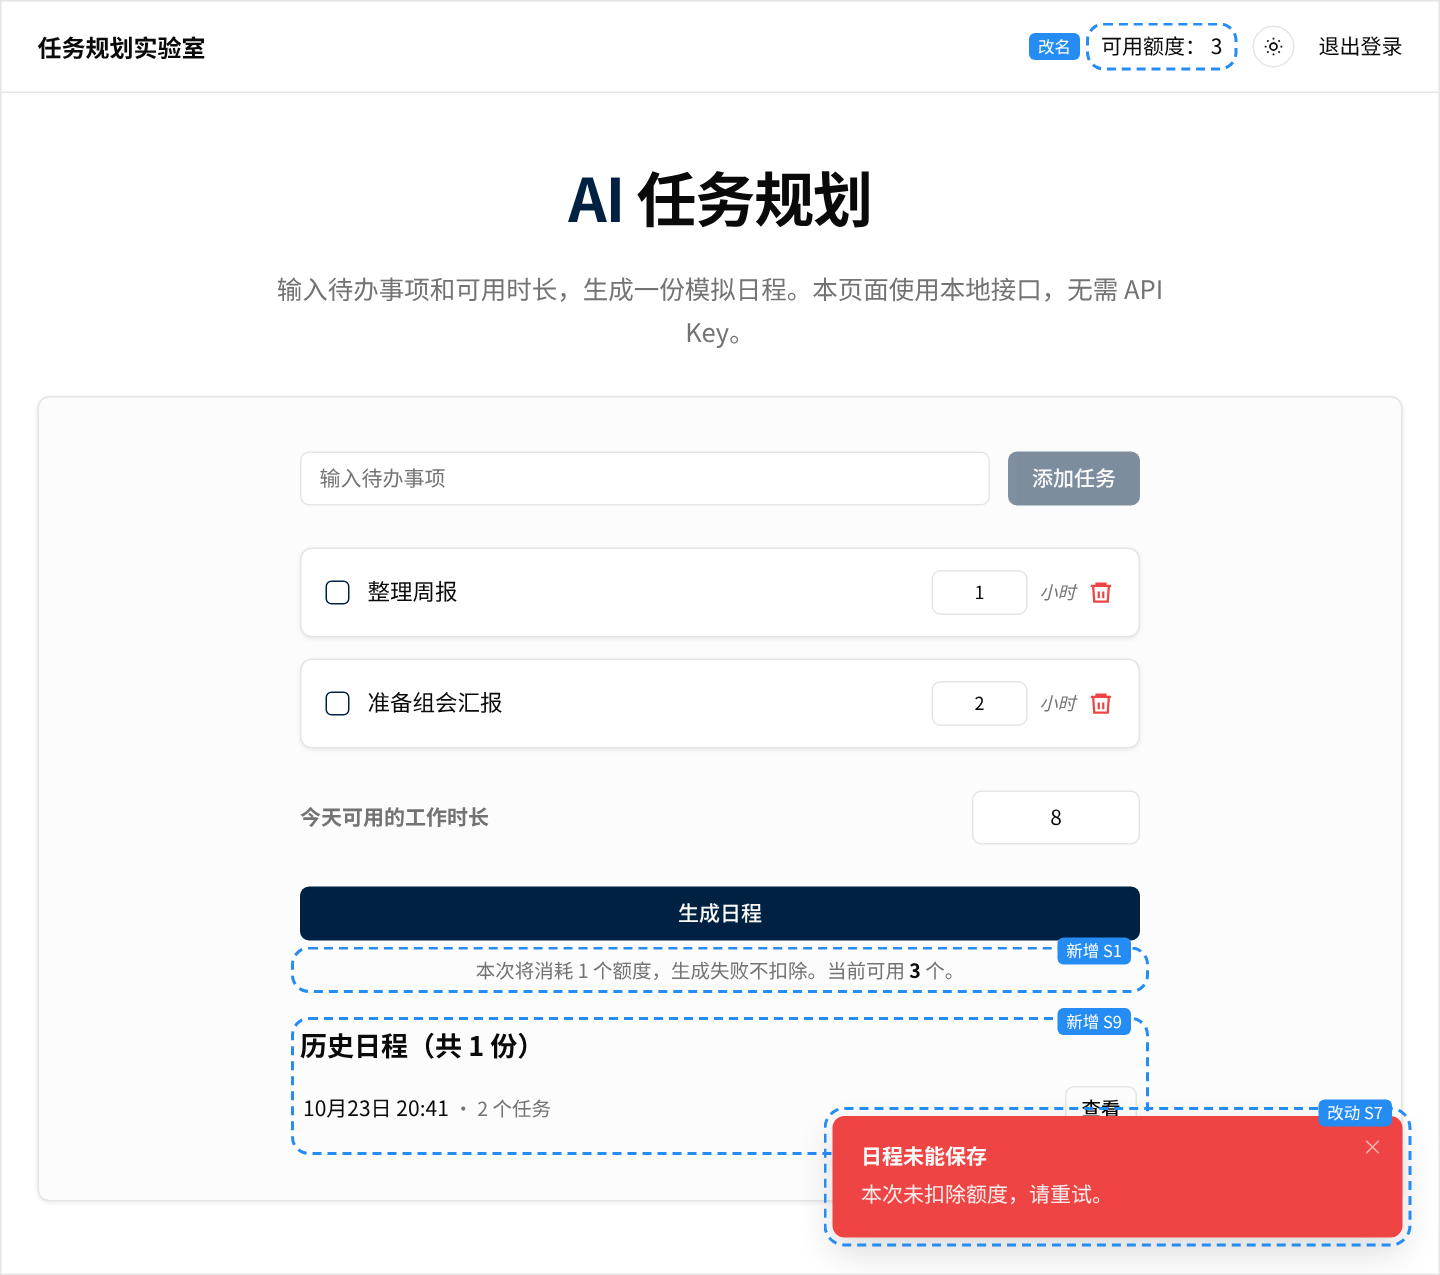
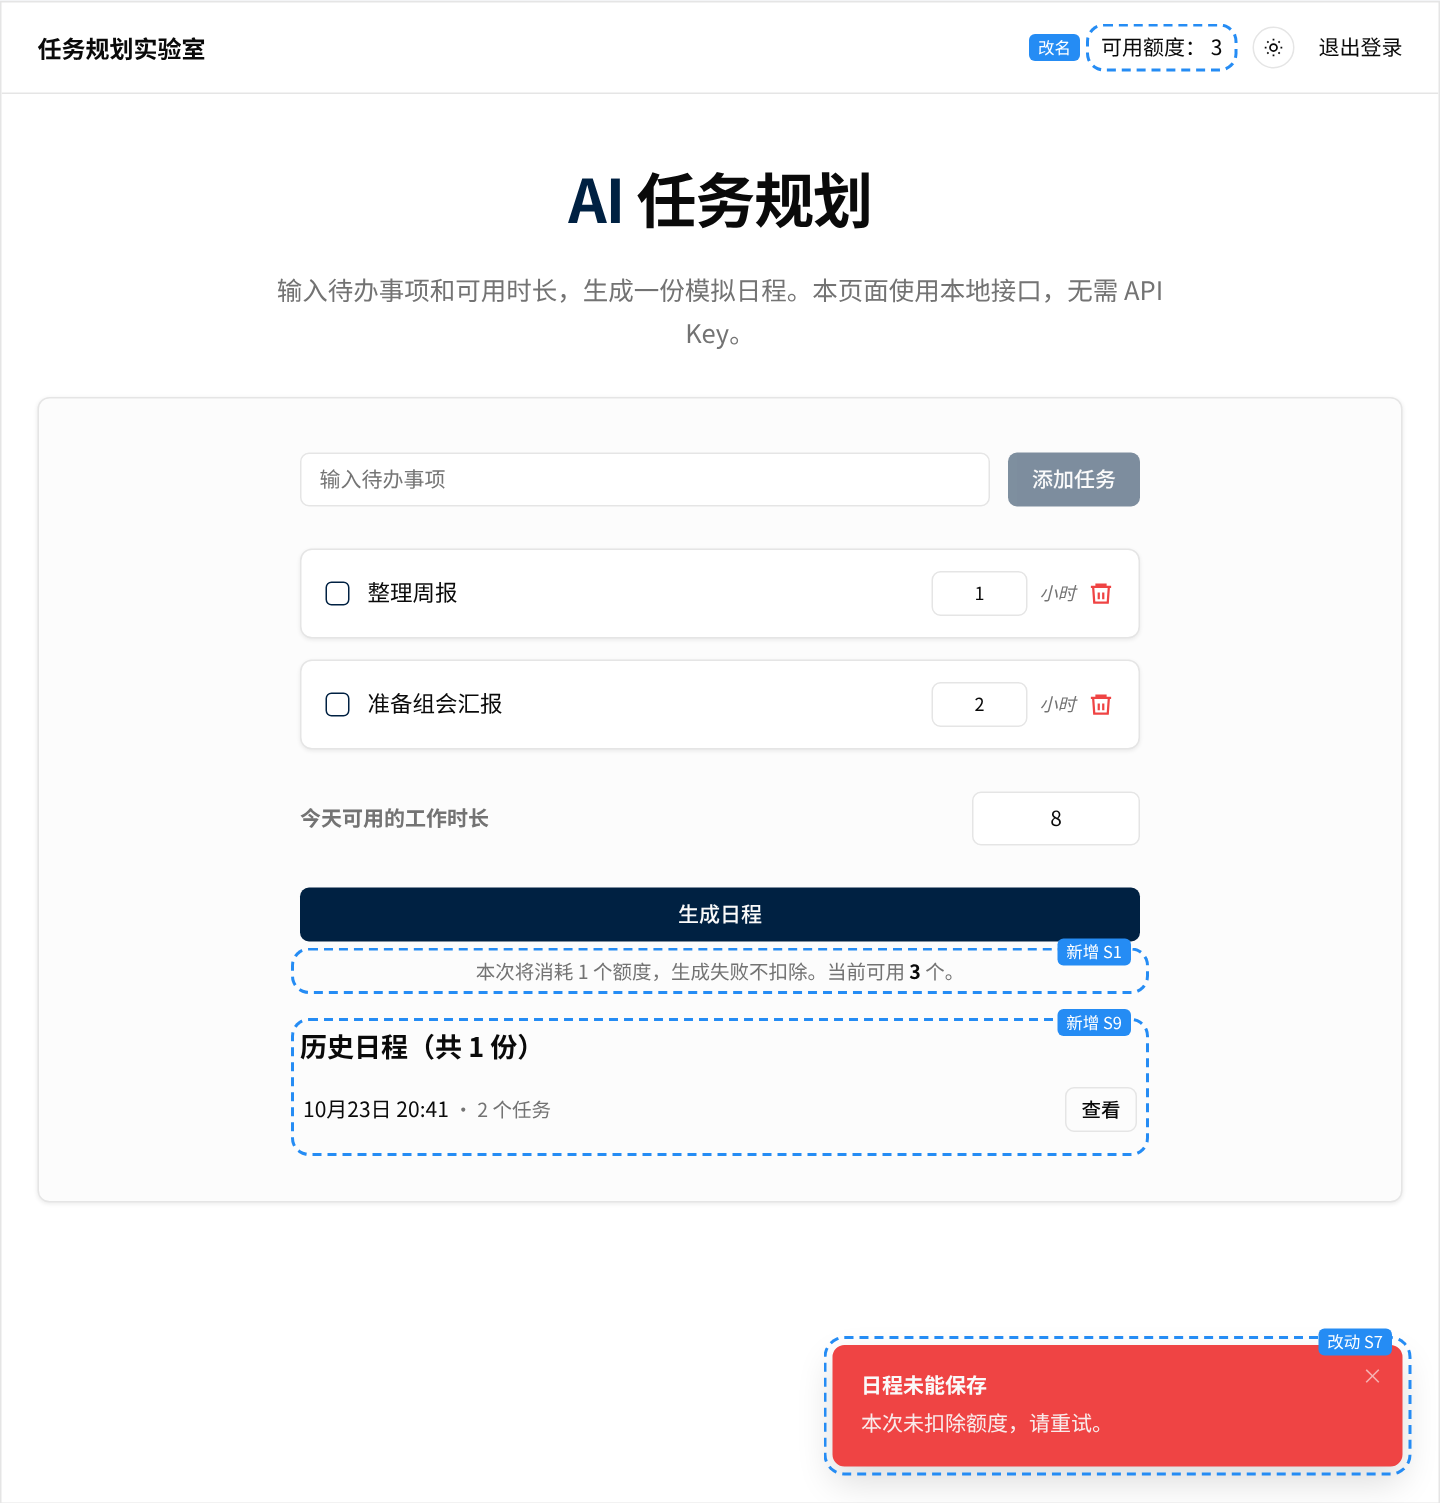
按一致性核对修订：补页面部分的验收方式和错误兜底，S10 改为常驻提示
- 03：区分"确认未保存"和"无法确认"；接口约定加其他意外错误的兜底行；T10 记录冻结尝试的开始时间
- 04：AC-07、AC-14 的页面部分改用前端测试；AC-08/09 写明 250 毫秒阈值；AC-10 补回 502 断言并按开始时间判断；AC-17 改为可执行的前端测试；I3 排除 S10
- 01/原型：S10 改为常驻提示框；截图里的弹出提示不再遮挡内容
- SUBMISSION：说明评审方式和两处有意保留

diff --git a/docs/product/02-prototype/index.html b/docs/product/02-prototype/index.html
@@ -73,6 +73,9 @@
   .notice { background: var(--info-bg); border: 1px solid hsl(31 40% 85%); border-radius: var(--radius); padding: 14px 16px; font-size: 14px; line-height: 1.7; }
   .notice .title { font-weight: 600; margin-bottom: 4px; }
   .notice .actions { display: flex; gap: 8px; margin-top: 10px; flex-wrap: wrap; }
+  .notice.warning { position: relative; background: hsl(40 100% 97%); border: 2px solid var(--warning); padding-right: 36px; }
+  .notice.warning .title { color: hsl(30 90% 35%); }
+  .notice .close { position: absolute; right: 12px; top: 8px; opacity: .6; }
   .spinner { width: 16px; height: 16px; border: 2px solid rgba(255,255,255,.35); border-top-color: #fff; border-radius: 50%; animation: spin .8s linear infinite; }
   @keyframes spin { to { transform: rotate(360deg); } }
   h3 { margin: 0 0 4px; font-size: 18px; }
@@ -92,6 +95,7 @@
   /* 交互时提示固定在窗口右下角，与真实应用一致；截图时放在页面右下角 */
   .toast { position: fixed; right: 24px; bottom: 24px; z-index: 20; width: 380px; border-radius: var(--radius); padding: 16px 40px 16px 18px; box-shadow: 0 10px 24px rgba(0,0,0,.14); font-size: 14px; }
   body.shot .toast { position: absolute; }
+  body.shot.has-toast main { padding-bottom: 200px; }
   .toast.default { background: var(--background); border: 1px solid var(--border); color: var(--foreground); }
   .toast.destructive { background: var(--destructive); border: 1px solid var(--destructive); color: var(--destructive-foreground); }
   .toast.warning { background: var(--background); border: 2px solid var(--warning); color: var(--foreground); }
@@ -142,6 +146,12 @@
 
         <button class="btn full" id="generate">生成日程</button>
         <div class="hint new" id="hint" data-new="新增 S1"></div>
+
+        <div class="notice warning new hidden" id="unconfirmed" data-new="新增 S10">
+          <span class="close" aria-hidden="true">×</span>
+          <div class="title">暂时无法确认本次结果</div>
+          额度可能已扣除。请稍后刷新页面，查看历史日程和可用额度：历史里有这份日程，就是已生成成功。重新生成会算作一次新的请求。
+        </div>
 
         <div class="notice new hidden" id="noCredits" data-new="新增 S4">
           <div class="title">当前没有可用额度</div>
@@ -196,7 +206,7 @@
     S8: { label: "S8 输入不合法", credits: 3, history: 1, invalidHours: true },
     S9: { label: "S9 历史日程", credits: 2, history: 2, expandHistory: true },
     S9b: { label: "S9 加载失败", credits: 3, history: 1, historyError: true },
-    S10: { label: "S10 结果未确认", credits: 2, history: 2, toast: ["warning", "暂时无法确认本次结果", "额度可能已扣除。请稍后刷新页面，查看历史日程和可用额度：历史里有这份日程，就是已生成成功。重新生成会算作一次新的请求。", "新增 S10"] }
+    S10: { label: "S10 结果未确认", credits: 2, history: 2, unconfirmed: true }
   };
 
   function el(id) { return document.getElementById(id); }
@@ -260,6 +270,8 @@
     hint.innerHTML = "本次将消耗 1 个额度，生成失败不扣除。当前可用 <b>" + s.credits + "</b> 个。";
 
     el("noCredits").classList.toggle("hidden", !zero);
+    el("unconfirmed").classList.toggle("hidden", !s.unconfirmed);
+    document.body.classList.toggle("has-toast", !!s.toast);
     el("historyLine").classList.toggle("hidden", !hasHistory);
     el("viewHistoryBtn").classList.toggle("hidden", !hasHistory);
 

diff --git a/docs/product/01-solution.md b/docs/product/01-solution.md
@@ -18,7 +18,7 @@
 | 冻结 | 调用模型前，直接从余额里减 1，不单独记录"冻结中"的额度 |
 | 成功 | 日程已保存，用户随时能在历史日程里找回。这时不需要再写任何数据，冻结时减掉的 1 就是这次的消耗 |
 | 退回 | 模型失败，或确认日程没有保存时，把减掉的 1 加回余额。每个请求最多退回一次 |
-| 结果未确认 | 退回失败，或无法确认日程是否已保存。不自动退回、不自动重试，记录下来供人工核对 |
+| 结果未确认 | 退回失败、无法确认日程是否已保存，或出现其他意外错误。不自动退回、不自动重试，记录下来供人工核对 |
 
 冻结期间，其他页面看到的可用额度也会少 1。
 
@@ -52,7 +52,7 @@ sequenceDiagram
 |---|---|---|
 | R1 成功一次扣 1 | "成功"指日程已保存，用户能在历史日程里找回 | 余额减 1，历史日程加 1 |
 | R2 额度不足不调用 | 冻结失败就结束，不发起调用 | 没有 `mock-ai.started` 日志 |
-| R3 模型失败不扣 | 冻结的额度退回；退回本身失败时进入"结果未确认"，留待人工核对 | 请求结束后余额与请求前相同 |
+| R3 模型失败不扣 | 冻结的额度退回；退回本身失败时进入"结果未确认"，留待人工核对 | 请求结束后余额与请求前相同（S10 除外） |
 | R4 并发不透支 | 只有冻结成功的请求能调用模型 | 余额始终不小于 0 |
 | R5 看得懂结果、知道下一步 | 每种结果都有固定文案，文案只说系统能保证的事 | 对照[界面状态与文案](#界面状态与文案)逐条检查 |
 
@@ -81,7 +81,7 @@ sequenceDiagram
 | D6 | 失败提示面向用户，不显示技术报错；只有退回成功后才说"本次未扣除额度" | R5：提示必须是真话 | 无 |
 | D7 | 输入检查放在冻结之前：必须有任务，时长 1–24 小时 | 不合法的请求不冻结、不调用 | 无 |
 | D8 | 可用额度为 0 时，生成按钮置灰并说明原因，提供"刷新额度"入口 | 点击之前就让用户知道；页面上的额度可能过期，用户可以主动刷新 | 最终以服务端判断为准 |
-| D9 | 结果无法确认时（退回失败、无法确认是否保存、页面没收到响应），不自动退回、不自动重试，如实告诉用户，并记录供人工核对 | 盲目退回或重试，可能重复退回或重复扣费 | 用户可能要等人工核对后才拿回额度；核对负责人待确认 |
+| D9 | 结果无法确认时（退回失败、无法确认是否保存、出现其他意外错误、页面没收到响应），不自动退回、不自动重试，如实告诉用户，并记录供人工核对 | 盲目退回或重试，可能重复退回或重复扣费 | 用户可能要等人工核对后才拿回额度；核对负责人待确认 |
 
 参考：Wasp 官方 Open SaaS 模板在 [PR #738](https://github.com/wasp-lang/open-saas/pull/738) 中用了同样的思路：调用模型前先扣 1 个额度，失败再加回来。本项目的基线代码与该 PR 修复前的版本基本一致。本方案在此基础上补齐成功的定义、结果无法确认时的处理、失败提示、历史日程、检查顺序和验收案例。
 
@@ -126,7 +126,7 @@ flowchart TD
     E -- 失败 --> U2[S10 结果未确认<br/>不重试<br/>记录待核对]
 ```
 
-页面没收到响应（网络中断、超时）时，不论服务端结果如何，都显示 S10。
+页面没收到响应（网络中断、超时）时，不论服务端结果如何，都显示 S10。冻结这一步本身出错等其他意外错误，也按 S10 处理。
 
 改进后的并发过程（余额为 1）：
 
@@ -146,7 +146,7 @@ sequenceDiagram
 
 ## 界面状态与文案
 
-弹出提示分标题和正文；其余状态的文案直接显示在页面上。页头显示"可用额度：N"，每次生成结束后、切回页面时都会自动刷新。
+弹出提示和页面上的提示框都分标题和正文，其余文案直接显示在页面上。弹出提示 5 秒后自动消失，同一时间只显示一条，所以需要用户回头查看的说明（S4、S10）放在常驻的提示框里。页头显示"可用额度：N"，每次生成结束后、切回页面时都会自动刷新。
 
 | 状态 | 出现时机 | 界面表现 | 文案 | 用户下一步 |
 |---|---|---|---|---|
@@ -159,9 +159,11 @@ sequenceDiagram
 | S7 保存失败 | 确认日程没有保存，且退回成功 | 弹出错误提示 | 标题：日程未能保存<br/>正文：本次未扣除额度，请重试。 | 重试 |
 | S8 输入不合法 | 没有任务，或时长不在 1–24 小时 | 不发请求，在对应位置提示 | 请先添加待办事项 ／ 可用时长需在 1–24 小时之间 | 修改输入 |
 | S9 历史日程 | 一直显示在生成按钮下方 | 按时间倒序，每项显示生成时间和任务数。加载中显示"正在加载历史日程…"；没有记录时显示"还没有生成过日程"；加载失败时显示"历史日程加载失败"和"重试" | 历史日程（共 N 份） | 展开查看 |
-| S10 结果未确认 | 退回失败；无法确认日程是否保存；页面没收到响应 | 弹出提示，不自动重试 | 标题：暂时无法确认本次结果<br/>正文：额度可能已扣除。请稍后刷新页面，查看历史日程和可用额度：历史里有这份日程，就是已生成成功。重新生成会算作一次新的请求。 | 稍后刷新，在历史日程里确认结果 |
+| S10 结果未确认 | 退回失败；无法确认日程是否保存；出现其他意外错误；页面没收到响应 | 按钮下方显示常驻提示框，用户关闭或刷新页面之前不会消失；不自动重试 | 标题：暂时无法确认本次结果<br/>正文：额度可能已扣除。请稍后刷新页面，查看历史日程和可用额度：历史里有这份日程，就是已生成成功。重新生成会算作一次新的请求。 | 稍后刷新，在历史日程里确认结果 |
 
 两处文案等待确认后再补：联系管理员的渠道确定后，S4 加上联系管理员的入口；核对负责人确定后，S10 的正文加上"如果没有，额度会在核对后退回"。
+
+S1 说的"生成失败不扣除"，在退回失败时要靠人工核对才能兑现（见 S10 和待确认第 4 项）。
 
 界面效果见[原型](02-prototype/README.md)。
 

diff --git a/SUBMISSION.md b/SUBMISSION.md
@@ -8,7 +8,7 @@
 
 - **问题判断**：生成日程先调模型、后查额度，查的还是过期的余额快照，导致额度为 0 也调用模型、并发请求可以透支；失败或额度不足时，用户不知道发生了什么、该做什么。
 - **方案**：调用前先冻结 1 个额度，判断和扣减由数据库一步完成；日程保存成功才算消耗，模型失败或确认没保存时退回；结果无法确认时不自动退回，如实告知并留下核对记录。每种结果都有明确提示，并展示历史日程。
-- **完成状态**：五项交付已完成，经过三轮独立评审修订；没有改代码；现状问题是代码推断，没有实际运行。
+- **完成状态**：五项交付已完成，按三轮评审意见修订过；没有改代码；现状问题是代码推断，没有实际运行。
 
 详细判断和决策见 [01 · 结论](docs/product/01-solution.md#结论)。
 
@@ -39,13 +39,12 @@
 | 原型覆盖全部界面状态 | 对照 01 的 S1–S10 | 通过，截图 12 张（含 S4、S9 的变体） |
 | 文档内的链接、锚点、编号和代码行号有效 | 用脚本逐个解析并核对 | 通过 |
 
-**独立评审**：三轮评审，评审者各自对照题目和代码阅读文档，发现的问题都已处理。
+**独立评审**：用 AI 做了三轮评审（一轮独立复核，两轮由不同模型做对抗评审），评审者各自对照题目和代码阅读文档，最后再做一次一致性核对。主要修改：接口约定和术语定义、备选方案对比、零余额提示不再断言"已用完"、新增"结果未确认"状态、并发失败案例改为按服务端日志判断、修正时长边界案例的基线。
 
-| 轮次 | 主要修改 |
-|---|---|
-| 第一轮 | 验收案例的前置条件和覆盖关系；接口约定；"冻结"的术语定义 |
-| 第二轮 | 补备选方案对比；零余额的提示不再断言"已用完"；原型与文案对齐 |
-| 第三轮 | 并发失败案例改为按服务端日志判断；新增"结果未确认"状态；修正时长边界案例的基线；保存失败、退回失败的验证提为必做 |
+意见大部分采纳，有意保留两处：
+
+- S6 只给通用的重试指引（"多次失败请检查待办事项内容"），不提测试用的 `[fail]` 标记，因为真实的模型失败不一定由任务内容引起；连续失败次数上限列入待办。
+- AC-10 只规定"按服务端日志判断先后"，不要求在业务代码里加暂停点来制造时序，怎么构造测试留给开发。
 
 ## 待办与交接
 

diff --git a/docs/product/02-prototype/README.md b/docs/product/02-prototype/README.md
@@ -19,7 +19,7 @@
 | S8 输入不合法 | [S8.png](screenshots/S8.png) | 时长超出 1–24 小时，就地提示，不发请求 |
 | S9 历史日程 | [S9.png](screenshots/S9.png) | 刷新后仍能找回已生成的日程 |
 | S9 历史加载失败 | [S9b.png](screenshots/S9b.png) | 历史区显示失败和"重试"，不影响生成 |
-| S10 结果未确认 | [S10.png](screenshots/S10.png) | 不承诺未扣额度；引导用户去历史日程里确认结果 |
+| S10 结果未确认 | [S10.png](screenshots/S10.png) | 常驻提示框，不会像弹出提示那样 5 秒后消失；不承诺未扣额度，引导用户去历史日程里确认结果 |
 
 ## 关键状态
 
